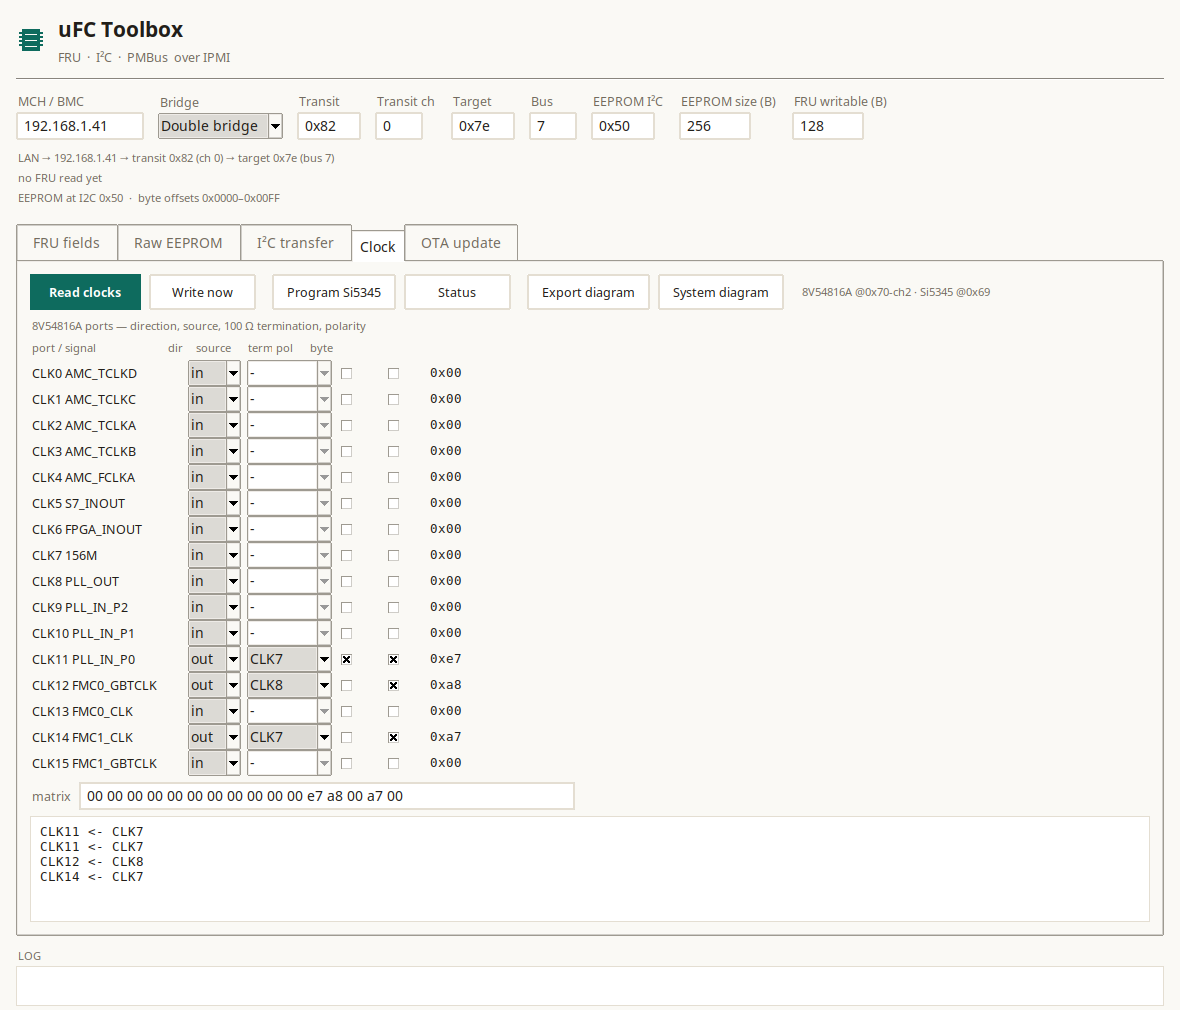
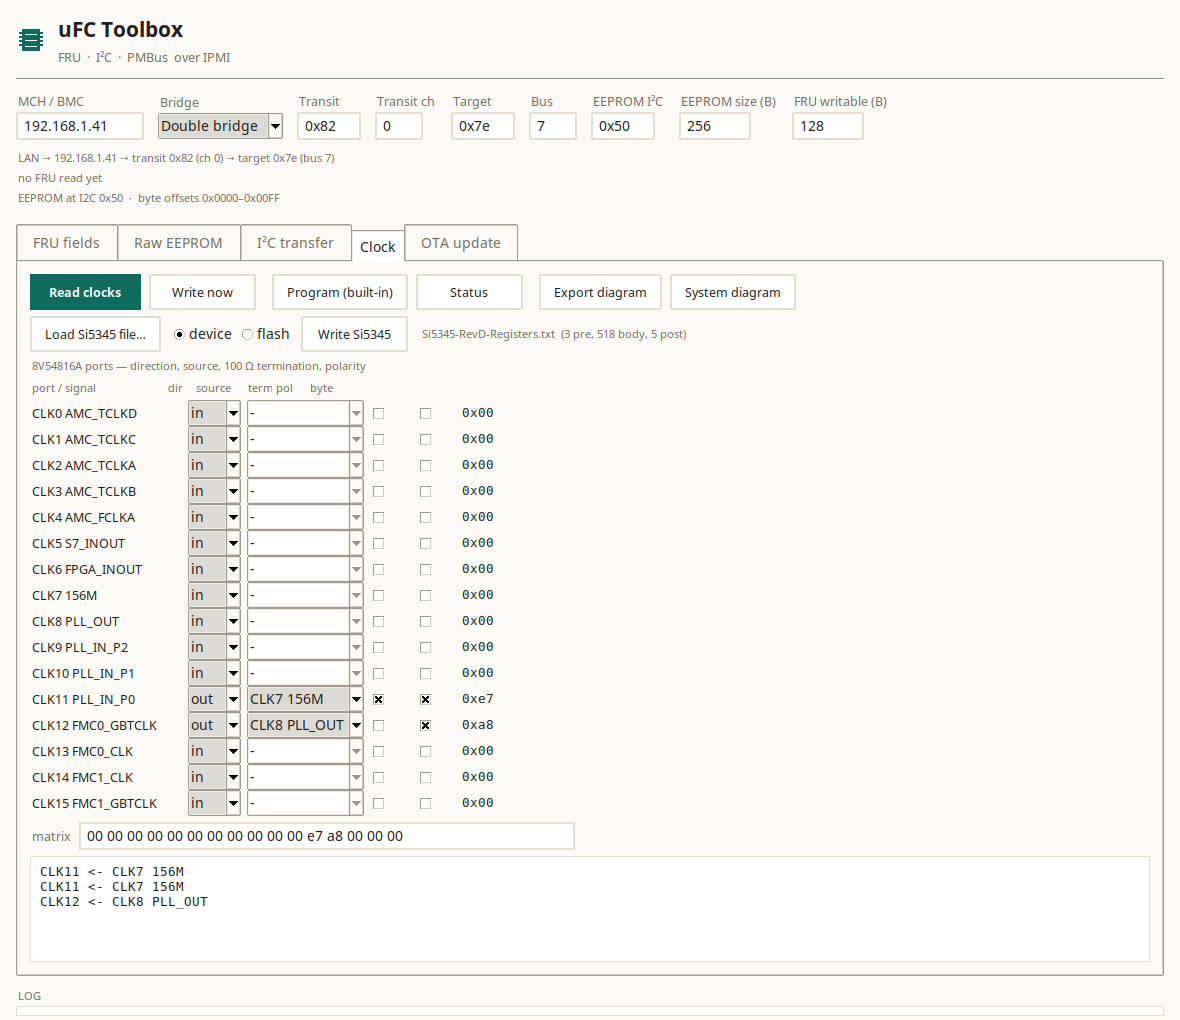
toolbox: all clock inputs selectable, Si5345 file load + write
- the port table's source list now comes from ufc-clocking.json: every
  mux port capable of being an input (CLK0-8, CLK12-15) is selectable,
  labelled with its signal name (AMC_TCLKD, 156M, PLL_OUT, FMC0_GBTCLK...);
- new 'Load Si5345 file...' button parses a ClockBuilder register script
  (pre/body/post, 526 entries for Si5345-RevD-Registers.txt);
- new 'Write Si5345' button programs the loaded table from the PC over
  I2C with page-aware addressing and the 300 ms calibration pause;
  the target selector offers device/flash (flash reports the missing
  MMC clock store);
- host-side register access verified on the board (read-back 0x0006).
README, screenshot and binary updated.

diff --git a/tools/uFC_toolbox/fru_gui_tk.py b/tools/uFC_toolbox/fru_gui_tk.py
@@ -23,7 +23,8 @@ from tkinter import filedialog, messagebox, ttk
 sys.path.insert(0, os.path.dirname(os.path.abspath(__file__)))
 from fru_core import (FruAccess, parse_fru, build_image, image_for_eeprom,  # noqa: E402
                       EEPROM_SIZE, FRU_MAX_SIZE, FRU_MAX_STRING,
-                      mfg_minutes_to_str, mfg_str_to_minutes)
+                      mfg_minutes_to_str, mfg_str_to_minutes,
+                      parse_si5345_txt, program_si5345)
 
 APP_TITLE = "uFC Toolbox"
 
@@ -328,12 +329,23 @@ class FruEditor(tk.Tk):
         ttk.Button(row, text="Read clocks", style="Primary.TButton",
                    command=self.clock_switch_read).pack(side="left")
         ttk.Button(row, text="Write now", command=self.clock_switch_write).pack(side="left", padx=(8, 0))
-        ttk.Button(row, text="Program Si5345", command=self.clock_program).pack(side="left", padx=(16, 0))
+        ttk.Button(row, text="Program (built-in)", command=self.clock_program).pack(side="left", padx=(16, 0))
         ttk.Button(row, text="Status", command=self.clock_status).pack(side="left", padx=(8, 0))
         ttk.Button(row, text="Export diagram", command=self.clock_export_dot).pack(side="left", padx=(16, 0))
         ttk.Button(row, text="System diagram", command=self.clock_show_system).pack(side="left", padx=(8, 0))
-        ttk.Label(row, text="8V54816A @0x70-ch2 · Si5345 @0x69",
-                  style="Hint.TLabel").pack(side="left", padx=(16, 0))
+
+        row2 = ttk.Frame(parent)
+        row2.pack(fill="x", pady=(0, 4))
+        ttk.Button(row2, text="Load Si5345 file…", command=self.si_load).pack(side="left")
+        self.si_target = tk.StringVar(value="device")
+        ttk.Radiobutton(row2, text="device", variable=self.si_target,
+                        value="device").pack(side="left", padx=(10, 0))
+        ttk.Radiobutton(row2, text="flash", variable=self.si_target,
+                        value="flash").pack(side="left", padx=(4, 0))
+        ttk.Button(row2, text="Write Si5345", command=self.si_write).pack(side="left", padx=(8, 0))
+        self.si_label = tk.StringVar(value="no Si5345 file loaded")
+        ttk.Label(row2, textvariable=self.si_label, style="Hint.TLabel").pack(side="left", padx=(12, 0))
+        self.si_groups = None
 
         tbl = ttk.Frame(parent)
         tbl.pack(fill="both", expand=True, pady=(0, 6))
@@ -364,7 +376,7 @@ class FruEditor(tk.Tk):
             ttk.Combobox(rowf, textvariable=d, values=("in", "out"), width=4,
                          state="readonly").pack(side="left", padx=(0, 6))
             src = tk.StringVar(value="-")
-            srcbox = ttk.Combobox(rowf, textvariable=src, width=8, state="disabled")
+            srcbox = ttk.Combobox(rowf, textvariable=src, width=12, state="disabled")
             srcbox.pack(side="left", padx=(0, 6))
             term = tk.BooleanVar(value=False)
             ttk.Checkbutton(rowf, variable=term).pack(side="left", padx=(0, 26))
@@ -391,6 +403,32 @@ class FruEditor(tk.Tk):
                                  bg=PANEL, fg=INK, relief="flat", highlightthickness=1,
                                  highlightbackground=LINE, padx=8, pady=6)
         self.clock_out.pack(fill="x")
+
+    def _mux_sources(self):
+        """All input-capable mux ports from the clocking file: {port: name}."""
+        doc = self._load_clocking()
+        res = {}
+        if doc:
+            devices = doc.get("devices", {})
+            for p in doc.get("points", []):
+                parent = p.get("parent", "")
+                dev = devices.get(parent, {})
+                if parent.upper() != "MUX" and not str(dev.get("part", "")).startswith("8V54816A"):
+                    continue
+                cap = p.get("capability") or {}
+                if not cap.get("in", p.get("dir") in ("in", "inout")):
+                    continue
+                try:
+                    idx = int(p["name"].upper().replace("CLK", ""))
+                except ValueError:
+                    continue
+                label = p.get("name") or ("CLK%d" % idx)
+                if p.get("signal") and p["signal"].upper() != label.upper():
+                    label += " " + p["signal"]
+                res[idx] = label
+        if not res:
+            res = {i: ("CLK%d %s" % (i, n)) for i, (_p, n) in enumerate(self.CLOCK_INPUTS)}
+        return res
 
     def _mux_allowed(self):
         doc = self._load_clocking()
@@ -423,9 +461,10 @@ class FruEditor(tk.Tk):
             d["byte"].set("0x%02x" % cfg)
             if cfg & 0x80:
                 src = cfg & 0x0F
-                d["src"].set(self.CLOCK_INPUTS[src][0] if src < len(self.CLOCK_INPUTS) else "-")
+                sources = self._mux_sources()
+                d["src"].set(sources.get(src, "-"))
                 d["srcbox"].configure(state="readonly",
-                                      values=["-"] + [p for (p, _n) in self.CLOCK_INPUTS])
+                                      values=["-"] + [sources[i] for i in sorted(sources)])
             else:
                 d["src"].set("-")
                 d["srcbox"].configure(state="disabled")
@@ -456,13 +495,17 @@ class FruEditor(tk.Tk):
             d["src"].set("-")
             d["srcbox"].configure(state="disabled")
         else:
+            sources = self._mux_sources()
             d["srcbox"].configure(state="readonly",
-                                  values=["-"] + [p for (p, _n) in self.CLOCK_INPUTS])
+                                  values=["-"] + [sources[i2] for i2 in sorted(sources)])
             src_name = d["src"].get()
             if src_name == "-":
                 self.clock_matrix[i] = 0x80 | term | pol
             else:
-                src = [p for (p, _n) in self.CLOCK_INPUTS].index(src_name)
+                try:
+                    src = int(src_name.split()[0].replace("CLK", ""))
+                except ValueError:
+                    src = 0
                 self.clock_matrix[i] = 0x80 | term | pol | src
                 port, _name = (self.CLOCK_INPUTS + self.CLOCK_OUTPUTS)[i]
                 self._clock_log("%s <- %s" % (port, src_name))
@@ -589,6 +632,35 @@ class FruEditor(tk.Tk):
 
         fills = {"chip": self.CLK_BLUE, "oscillator": self.CLK_GREEN,
                  "connector": self.CLK_SALMON}
+
+        # 1) size every box to fit its labels, then stack to avoid overlaps
+        sized = {}
+        for did, dev in devices.items():
+            hx, hy, hw, hh = dev["box"]
+            pts = [p for p in doc.get("points", []) if p.get("parent") == did]
+            left = [p for p in pts if p["dir"] == "in"]
+            right = [p for p in pts if p["dir"] in ("out", "inout")]
+            lw = max([len(p["name"]) for p in left] or [0]) * 5.2
+            rw = max([len(p["name"]) for p in right] or [0]) * 5.2
+            bw = max(hw, 24 + lw + rw)
+            bh = max(hh, 24 + max(len(left), len(right)) * 15)
+            sized[did] = [hx, hy, bw, bh]
+        placed = []
+        for did in sorted(sized, key=lambda d: (sized[d][0], sized[d][1])):
+            x, y, bw, bh = sized[did]
+            moved = True
+            while moved:
+                moved = False
+                for px, py, pw, ph in placed:
+                    if x < px + pw + 8 and px < x + bw + 8 and \
+                       y < py + ph + 8 and py < y + bh + 8:
+                        y = py + ph + 10
+                        moved = True
+            sized[did] = [x, y, bw, bh]
+            placed.append((x, y, bw, bh))
+        for did, (x, y, bw, bh) in sized.items():
+            devices[did]["box"] = [x, y, bw, bh]
+
         anchors = {}
         port_labels = []
         for did, dev in devices.items():
@@ -599,19 +671,21 @@ class FruEditor(tk.Tk):
             c.create_text(x + 4, y + 8, text=dev.get("label", did), anchor="w",
                           font=(UI_FONT, 8, "bold"), fill=ed)
             pts = [p for p in doc.get("points", []) if p.get("parent") == did]
-            left = [p for p in pts if p["dir"] in ("in", "inout")]
+            left = [p for p in pts if p["dir"] == "in"]
             right = [p for p in pts if p["dir"] in ("out", "inout")]
 
-            def row_y(n, i):
-                return y + 18 + (bh - 26) * (i + 0.5) / max(1, n)
+            rows = max(len(left), len(right))
+
+            def row_y(i):
+                return y + 18 + (bh - 26) * (i + 0.5) / max(1, rows)
 
             for i, p in enumerate(left):
-                yy = row_y(len(left), i)
+                yy = row_y(i)
                 anchors.setdefault(p["id"], {})["l"] = (x, yy)
                 port_labels.append((x + 5, yy, p["name"], "w",
                                     fills.get(dev.get("class"), "#FFFFFF")))
             for i, p in enumerate(right):
-                yy = row_y(len(right), i)
+                yy = row_y(i)
                 anchors.setdefault(p["id"], {})["r"] = (x + bw, yy)
                 port_labels.append((x + bw - 5, yy, p["name"], "e",
                                     fills.get(dev.get("class"), "#FFFFFF")))
@@ -810,6 +884,43 @@ class FruEditor(tk.Tk):
         self.clock_out.insert("end", text + "\n")
         self.clock_out.see("end")
         self.clock_out.configure(state="disabled")
+
+    def si_load(self):
+        path = filedialog.askopenfilename(
+            title="ClockBuilder register script",
+            filetypes=[("ClockBuilder text", "*.txt"), ("All files", "*")])
+        if not path:
+            return
+        try:
+            self.si_groups = parse_si5345_txt(path)
+            n = sum(len(v) for v in self.si_groups.values())
+            self.si_label.set("%s  (%d pre, %d body, %d post)" % (
+                os.path.basename(path), len(self.si_groups["pre"]),
+                len(self.si_groups["body"]), len(self.si_groups["post"])))
+            self._clock_log("Si5345 file loaded: %s — %d registers" % (path, n))
+        except Exception as e:
+            self._clock_log("ERROR: %s" % e)
+
+    def si_write(self):
+        if not self.si_groups:
+            self._clock_log("ERROR: load a Si5345 register file first")
+            return
+        if self.si_target.get() == "flash":
+            self._clock_log("flash target: the clock store write protocol is not implemented in the MMC yet")
+            return
+        try:
+            total = 0
+            def progress(n):
+                total = n
+                if n % 64 == 0:
+                    self._clock_log("Si5345: %d registers written" % n)
+                    self.update_idletasks()
+            n = program_si5345(self._access(), self.si_groups, progress=progress)
+            self._clock_log("Si5345 programmed: %d registers (preamble 300 ms, body, postamble)" % n)
+            self._status("Si5345 programmed", "ok")
+        except Exception as e:
+            self._status("Si5345 write failed", "error")
+            self._clock_log("ERROR: %s" % e)
 
     def clock_export_dot(self):
         try:

diff --git a/tools/uFC_toolbox/fru_core.py b/tools/uFC_toolbox/fru_core.py
@@ -231,6 +231,69 @@ def _parse_area(raw, area_off, names, is_board):
     return info
 
 
+def parse_si5345_txt(path):
+    """Parse a ClockBuilder register script into pre/body/post groups."""
+    groups = {"pre": [], "body": [], "post": []}
+    section = None
+    for line in open(path):
+        line = line.strip()
+        if line.startswith("#"):
+            low = line.lower()
+            if "start configuration preamble" in low:
+                section = "pre"
+            elif "end configuration preamble" in low:
+                section = None
+            elif "start configuration registers" in low:
+                section = "body"
+            elif "end configuration registers" in low:
+                section = None
+            elif "start configuration postamble" in low:
+                section = "post"
+            elif "end configuration postamble" in low:
+                section = None
+            continue
+        if section and line.lower().startswith("0x"):
+            try:
+                a, d = line.split(",")
+                groups[section].append((int(a, 16), int(d, 16)))
+            except ValueError:
+                continue
+    return groups
+
+
+def program_si5345(access, groups, bus=1, muxes=((0x70, 2),), dev=0x69,
+                   delay=0.3, progress=None):
+    """Write a ClockBuilder table to the Si5345 with page-aware addressing."""
+    page = None
+
+    def wr(reg, data):
+        access.xfer(bus, list(muxes), dev, bytes([reg & 0xFF, data & 0xFF]))
+
+    def run(entries):
+        nonlocal page
+        n = 0
+        for addr, data in entries:
+            if (addr & 0xFF) == 0x01:      # page register itself
+                wr(0x01, data)
+                page = data
+            else:
+                p = addr >> 8
+                if page != p:
+                    wr(0x01, p)
+                    page = p
+                wr(addr & 0xFF, data)
+            n += 1
+            if progress and n % 32 == 0:
+                progress(n)
+        return n
+
+    total = run(groups.get("pre", []))
+    time.sleep(delay)
+    total += run(groups.get("body", []))
+    total += run(groups.get("post", []))
+    return total
+
+
 def parse_fru(raw, limit=FRU_MAX_SIZE):
     """Return the FRU fields, the multirecord blob and the area layout."""
     if len(raw) < 8 or raw[0] != 0x01:

diff --git a/tools/uFC_toolbox/README.md b/tools/uFC_toolbox/README.md
@@ -143,7 +143,15 @@ always shows the 16 bytes that are written to the device.
 
 - **Read clocks** / **Write now** — read/write the switch matrix over I²C
   (mux 0x70 ch2, 0x58)
-- **Program Si5345** — firmware command `0x16` (build with `-DCLOCK_PROGRAM=ON`)
+- The **source** list of every output is taken from `ufc-clocking.json`: all
+  mux ports that are capable of being an input (CLK0‑8, CLK12‑15) with their
+  signal names
+- **Program (built-in)** — firmware command `0x16`, writes the compiled table
+- **Load Si5345 file…** — load a ClockBuilder register script
+  (e.g. `Si5345-RevD-Registers.txt`); the counts (pre/body/post) are shown
+- **Write Si5345** — writes the loaded table from the PC over I²C
+  (page‑aware 8‑bit addressing, 300 ms calibration pause); target selector
+  **device** / **flash** (flash needs the MMC clock store, not implemented)
 - **Status** — command `0x17`
 - **Export diagram** — save the merged Graphviz `.dot` (includes the FPGA
   port/pin tables)
